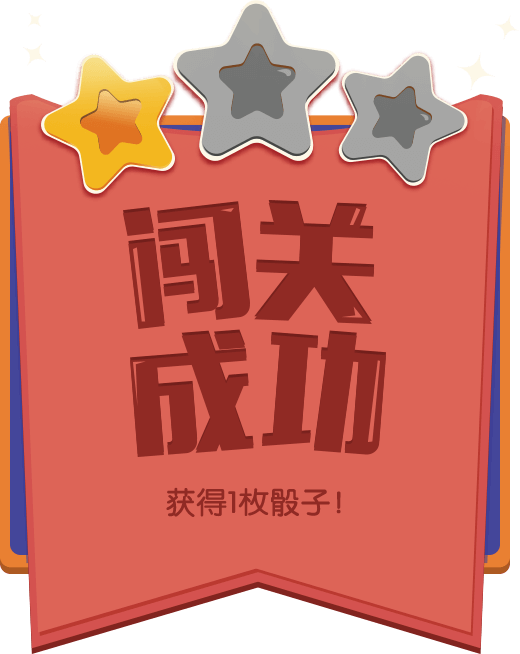
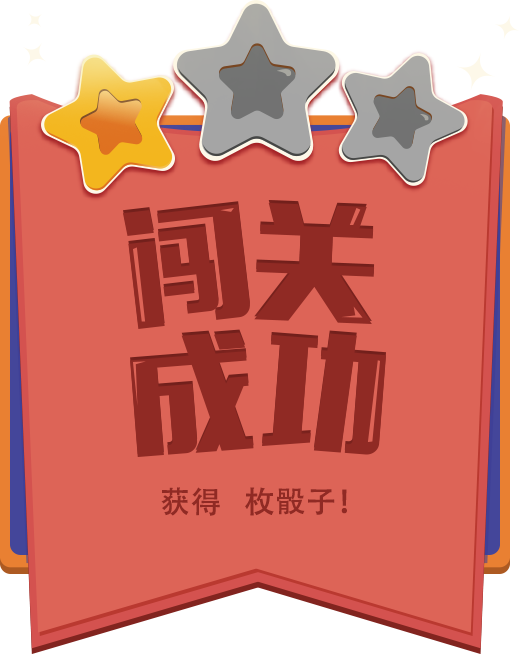
修改挑战

Changed region(s): [[0.3077, 0.7339, 0.6769, 0.7951]]

diff --git a/js/publicFun.js b/js/publicFun.js
@@ -237,11 +237,11 @@ function startPlaying(){
                             diceNumberWord=res.dice;
                             if(dScore.childList[0].text>=30)
                             {
-                                gameResults('games3');
+                                gameResults('games3',1);
                             }else if(dScore.childList[0].text>=20){
-                                gameResults('games2');
+                                gameResults('games2',2);
                             }else if(dScore.childList[0].text>=10){
-                                gameResults('games1');
+                                gameResults('games1',3);
                             }else{
                                 gameResults('gameError');
                             }
@@ -481,7 +481,7 @@ mousey.prototype.showing=function(){
 	},loop:true});
 }
 //确定闯关
-function gameResults(bkg){
+function gameResults(bkg,number){
 	var resultLayer = new LSprite();
 	backLayer.addChild(resultLayer);
 	resultLayer.addEventListener(LMouseEvent.MOUSE_DOWN,setNull);
@@ -489,13 +489,12 @@ function gameResults(bkg){
 	var light = new LBitmap(new LBitmapData(imgList['light']));
 	light.y = 123;
 	light.x = 0;
-	resultLayer.addChild(light);
+	resultLayer.addChild(light);	
 	LTweenLite.to(light,8.0,{rotate:360,loop:true,onComplete:function(){
 		light.rotate=0;
 	}});
-	if(bkg=='gameError'){
-		light.visible =false;
-	}
+	
+	
 	//背景
 	var resultBkg = new LBitmap(new LBitmapData(imgList[bkg]));
 	resultBkg.y = 211;
@@ -505,6 +504,12 @@ function gameResults(bkg){
 	comfirm.y = 756;
 	comfirm.x = (LGlobal.width-comfirm.getWidth())/2;
 	resultLayer.addChild(comfirm);
+	var ntext =  new setText(315,698,30,number,'#902a24',true);
+	resultLayer.addChild(ntext);
+	if(bkg=='gameError'){
+		light.visible =false;
+		ntext.visible = false;
+	}
 	comfirm.addEventListener(LMouseEvent.MOUSE_DOWN,function(){
 		resultLayer.removeAllChild();
 		resultLayer.remove();
